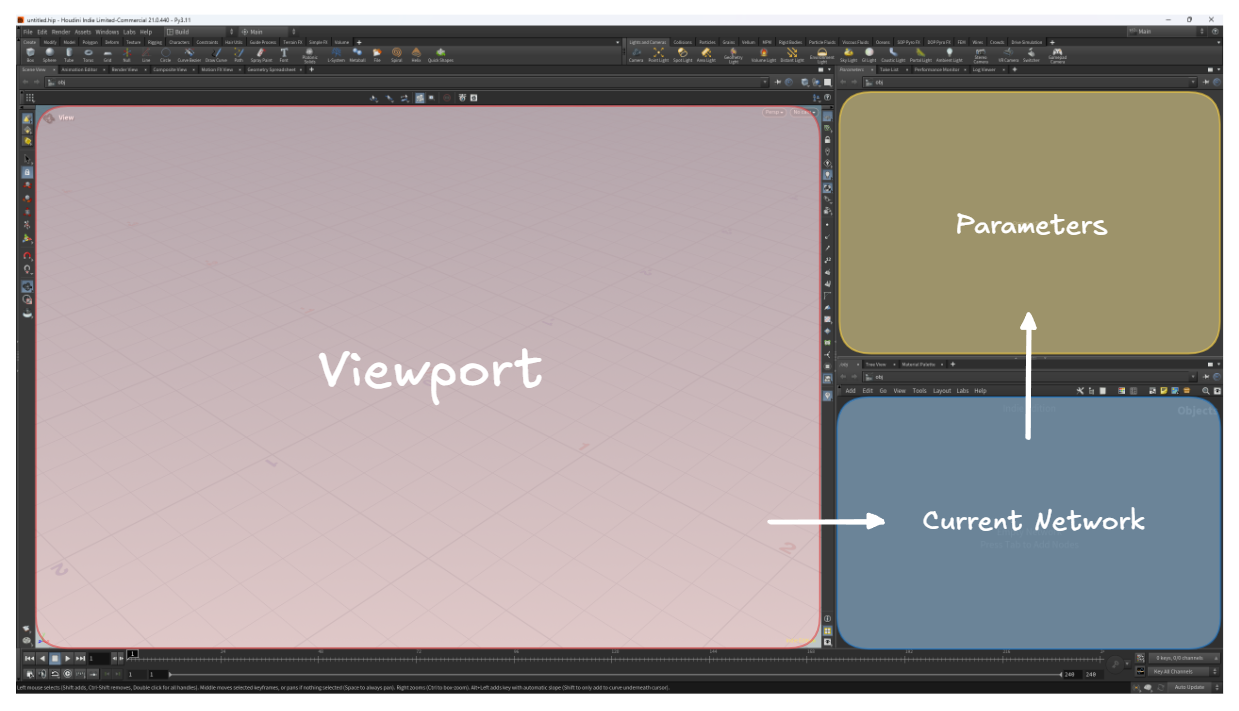
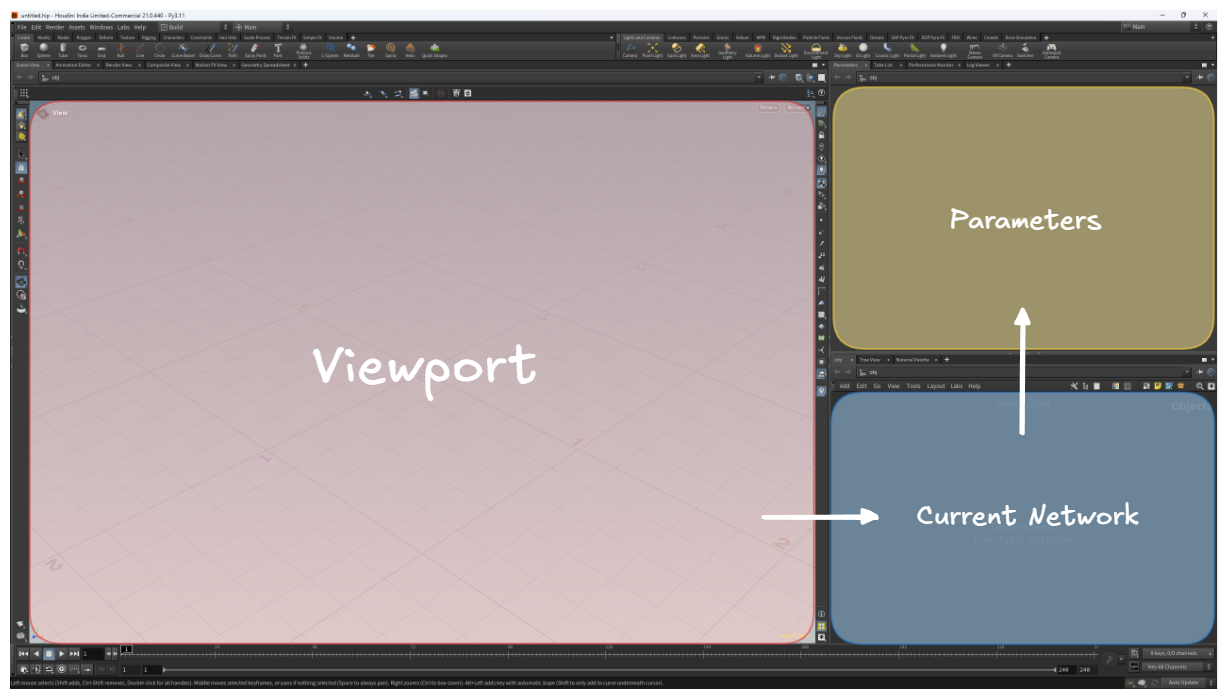
Published multiple files

diff --git a/content/Learning Notes/Houdini is HIP/Houdini is HIP.md b/content/Learning Notes/Houdini is HIP/Houdini is HIP.md
@@ -1,5 +1,5 @@
 ---
-{"publish":true,"created":"2025-10-28T22:09:41.004-07:00","modified":"2025-10-29T03:08:04.007-07:00","published":"2025-10-29T03:08:04.007-07:00","tags":["index"],"cssclasses":""}
+{"publish":true,"created":"2025-10-28T22:09:41.004-07:00","modified":"2025-10-29T03:23:25.595-07:00","published":"2025-10-29T03:23:25.595-07:00","tags":["index"],"cssclasses":""}
 ---
 
 [Houdini is HIP](https://www.youtube.com/watch?v=J96j3k3rPUU&list=PLhyeWJ40aDkXtkcuhTkCBzcWZ8NBZKOu6)
